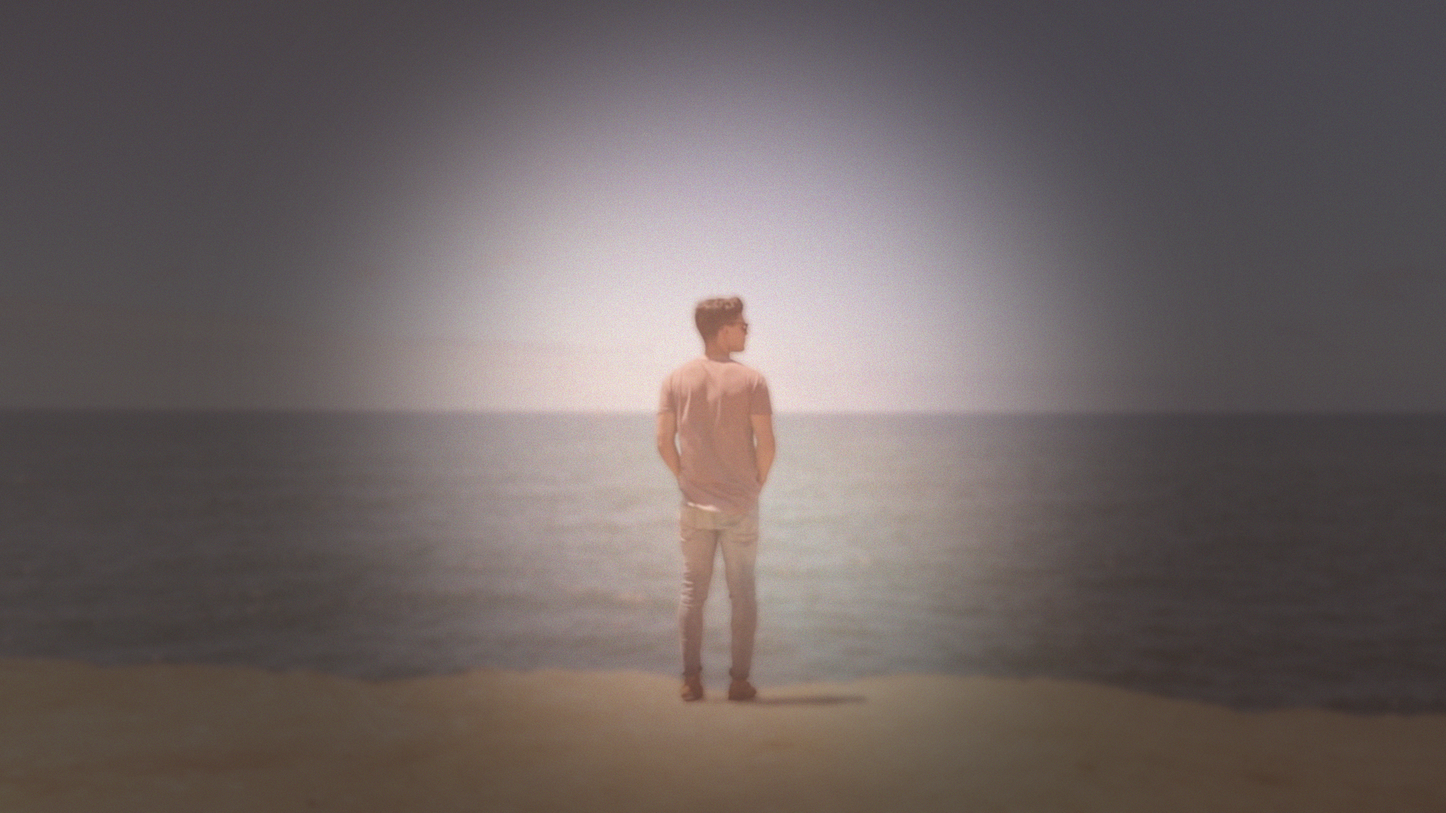
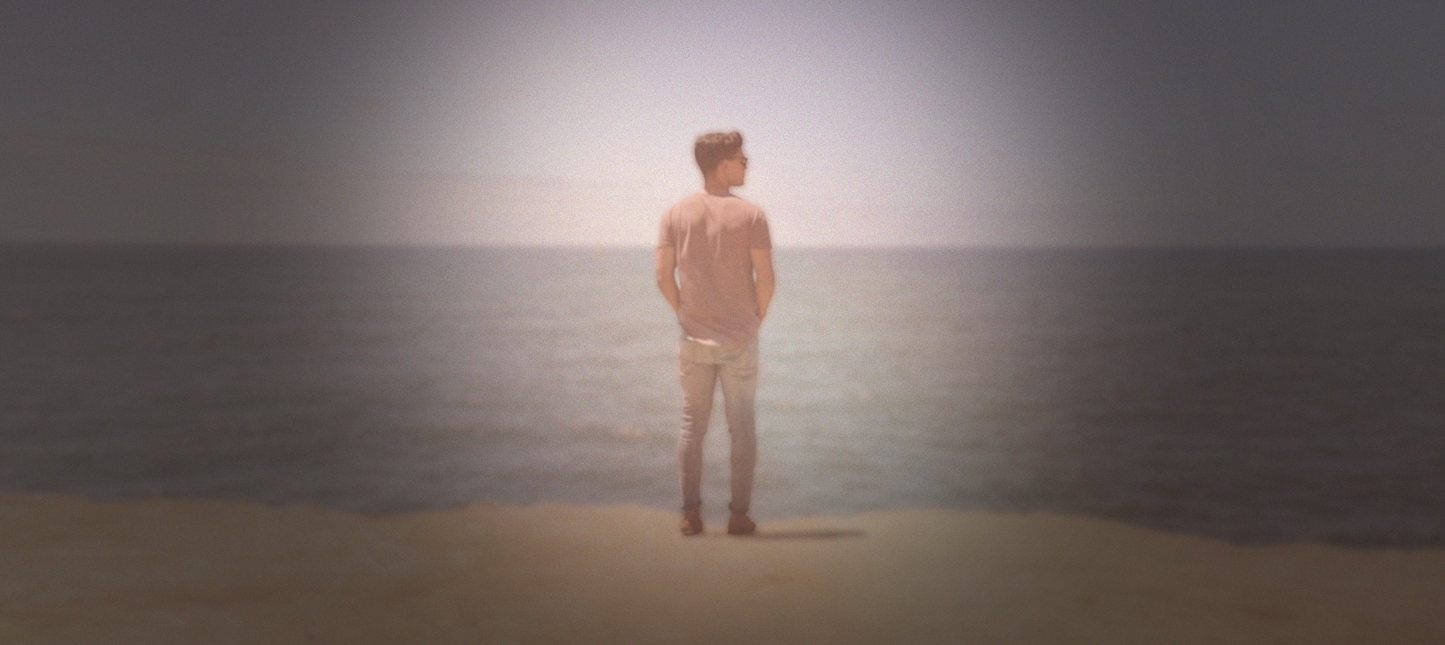
fixed file structure as per homework notes from instructor

diff --git a/styles/style.css b/styles/style.css
@@ -1,18 +1,19 @@
 html, body {
   margin: 0;
   padding: 0;
-  font-family: futura
+  font-family: futura;
 }
 .banner {
   background-color: #4a3f45;
   margin-top: 0;
-  height: 60px;
   min-width: 1050px;
   margin-right: 0;
-  border-right: 6px solid #c4bfbc;
-  border-left: 6px solid #c4bfbc;
-  border-top: 6px solid #c4bfbc;
-  border-bottom: 3px solid #c4bfbc;
+  border-right: 3px solid #c4bfbc;
+  border-left: 3px solid #c4bfbc;
+  border-top: 3px solid #c4bfbc;
+  border-bottom: 6px solid #c4bfbc;
+  height: 65px;
+
 }
 h1 {
   letter-spacing: 5px;
@@ -42,17 +43,27 @@ h1 {
   position: relative;
   bottom: 35px;
   right: 35px;
+  -webkit-transition: -webkit-transform 0.4s ease;
+  -moz-transition: -moz-transform 0.4 ease;
+  -o-transition: -o-transform: 0.4 ease;
+  transition: transform 0.4 ease;
 }
+#nav-links a:hover {
+  -webkit-transform: scale(1.10);
+  -moz-transform: scale(1.10);
+  -ms-transform: scale(1.10);
+  -o-transform: scale (1.10);
+  transform: scale (1.10);
+}
+
 #main-logo {
-  height: 500px;
-  background-image: url(../images/main-logo.jpg);
-  background-position: center;
-  min-width: 1050px;
+  background-image: url(../images/header-photo-2.jpg);
   background-size: cover;
-  background-repeat: no-repeat;
-  border-right: 6px solid #c4bfbc;
-  border-left: 6px solid #c4bfbc;
-  border-bottom: 6px solid #c4bfbc;
-  border-top: 3px solid #c4bfbc;
-}
+  height: 400px;
   
+  
+  
+  
+
+ 
+}

diff --git a/index.html b/index.html
@@ -22,10 +22,7 @@
       </nav>
     </header>
     
-    <section id="main-logo">
-    
-    </section>
-    
+    <section id="main-logo"></section>
     <section>
       <!-- social media accounts -->
       <h2>Follow Me</h2>
